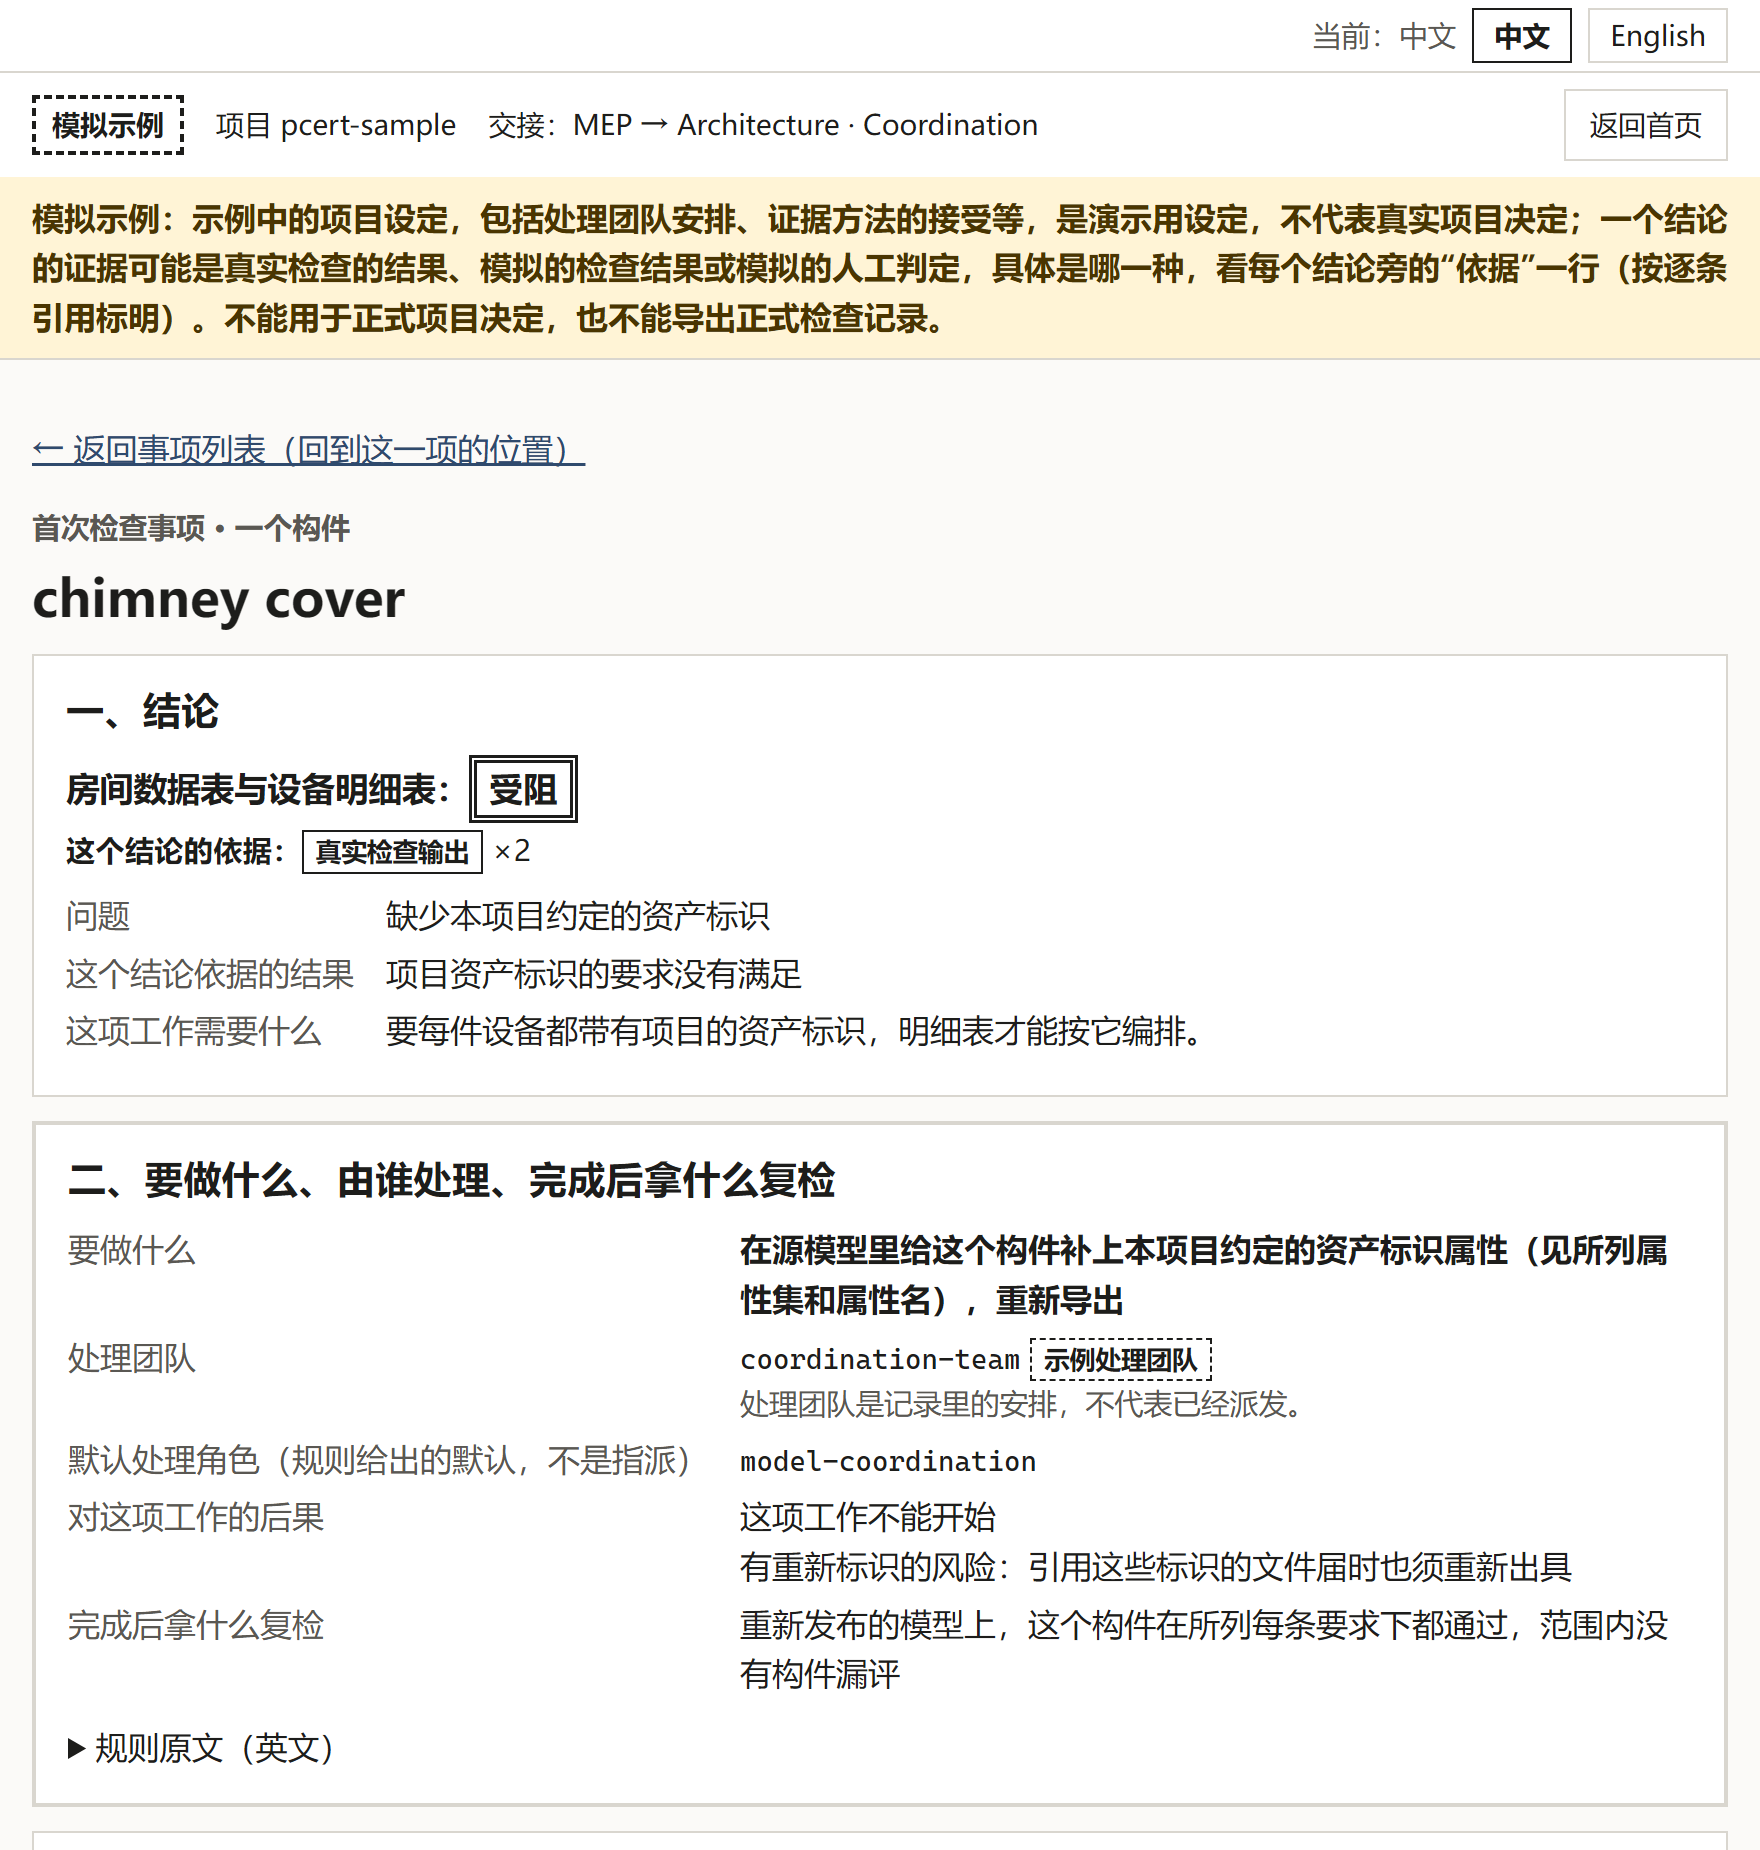
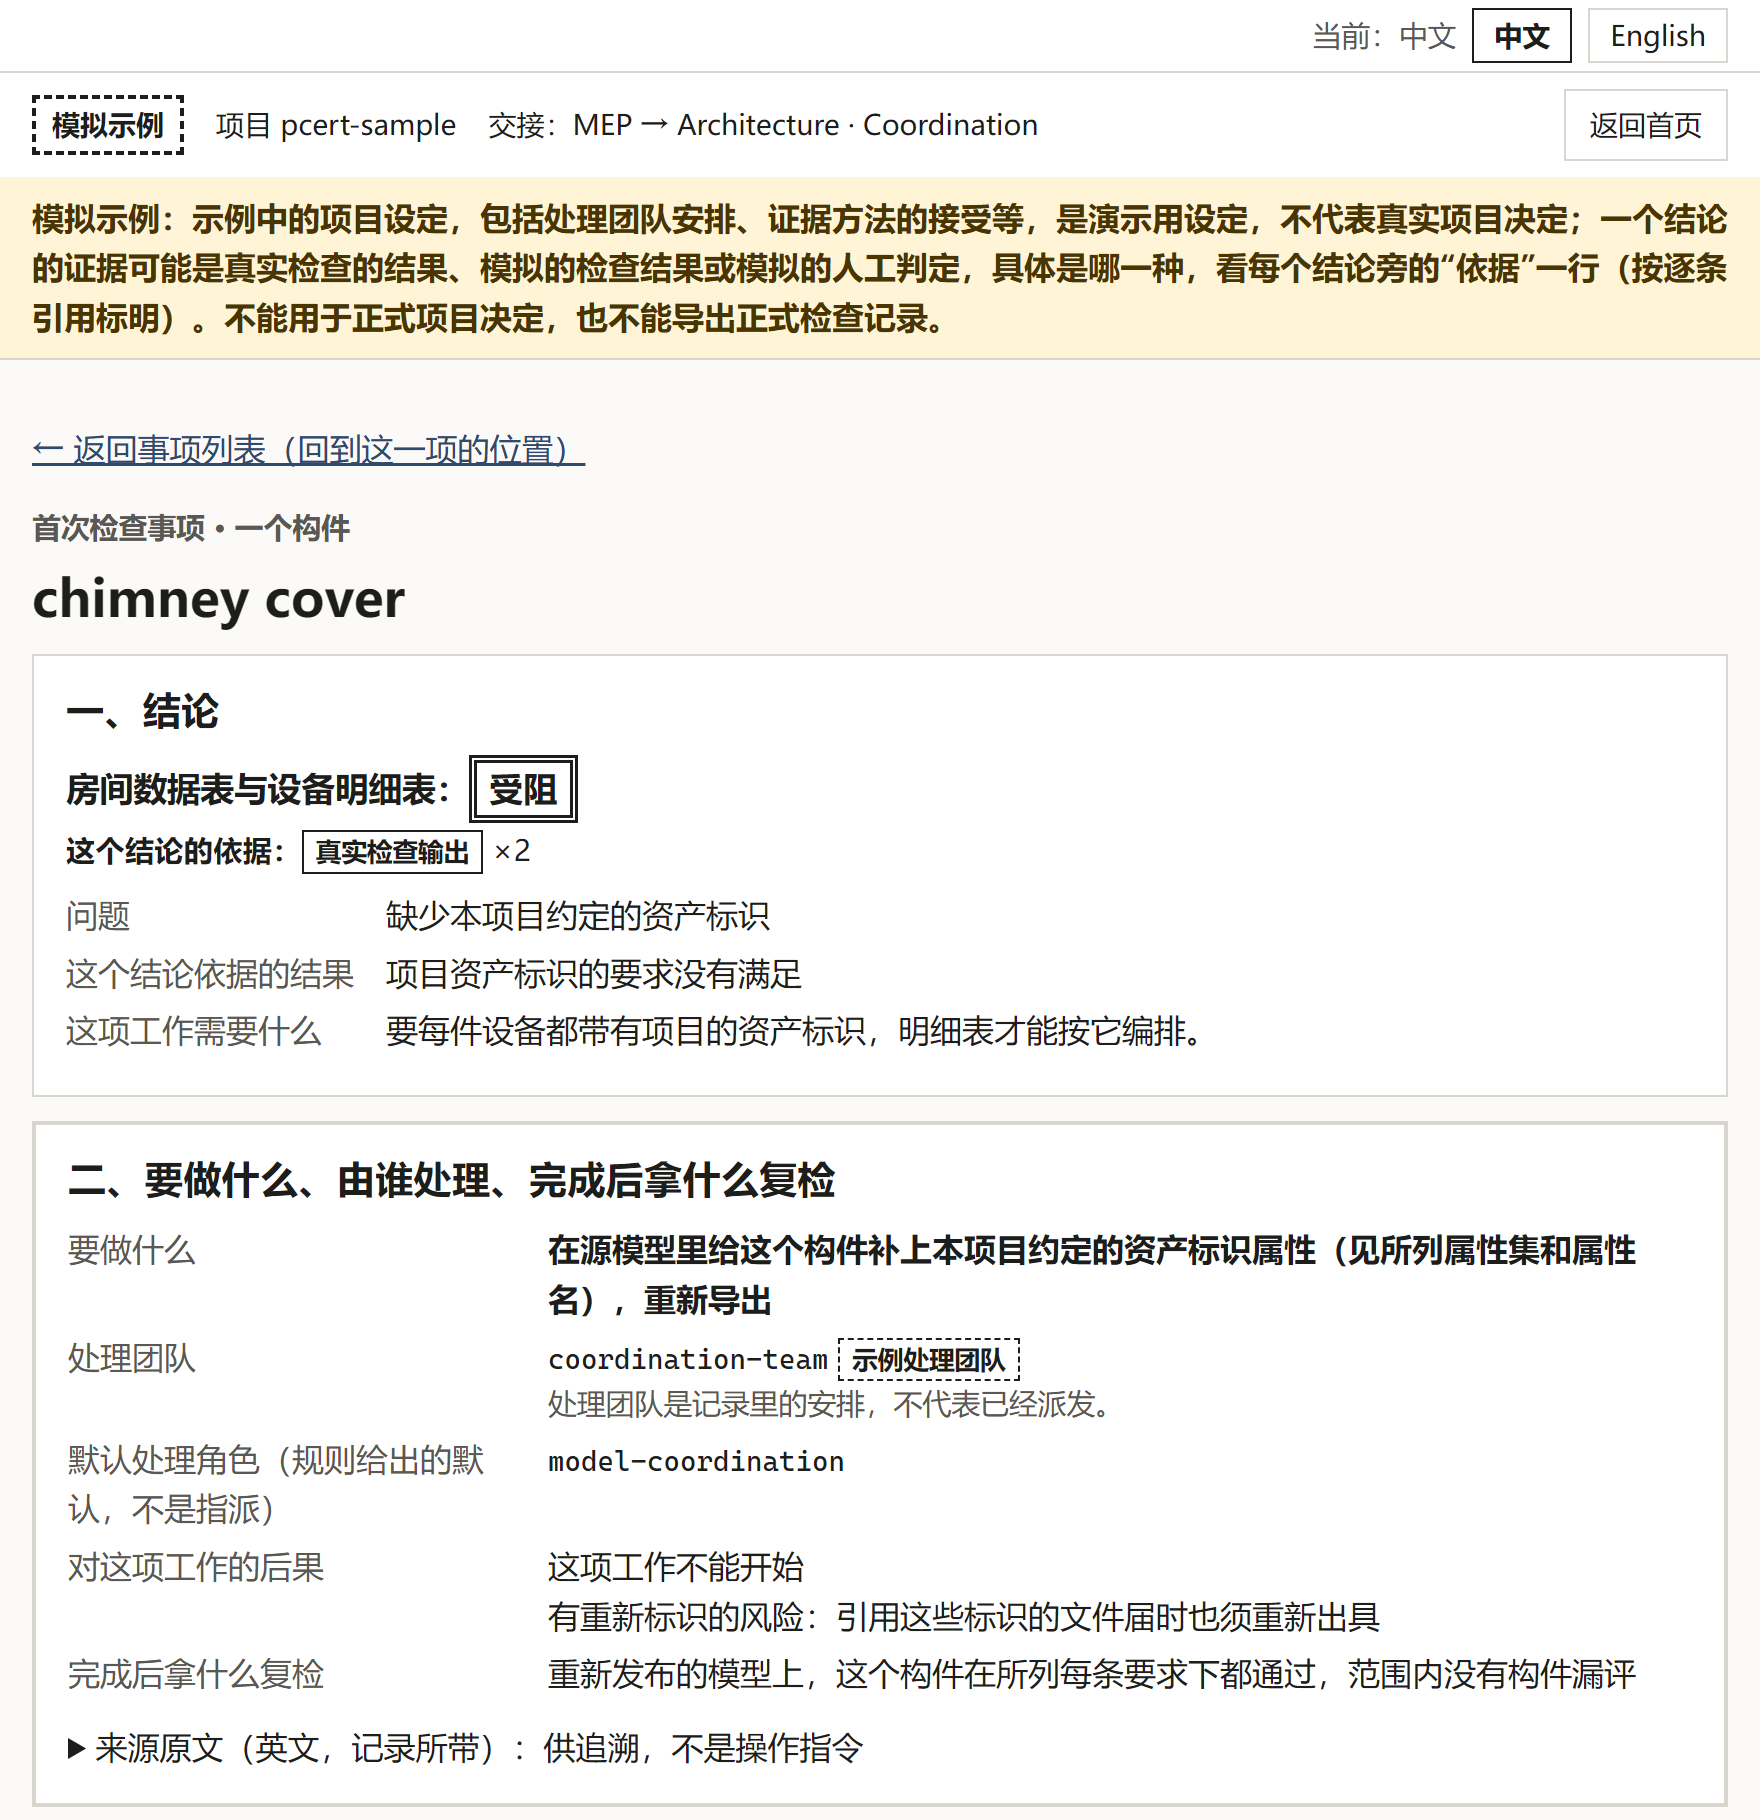
docs: re-capture the Chinese README screenshots at 577620e
The home and first-check captures come out byte-identical to the 872f76f
ones, so those two files stay. The one-item capture is replaced: the fold
under "what to do" now carries the record's own English words with a label
saying so (295da77), and the definition tables' value column has more room
(1cc76b8). Its height goes 925 -> 910 so it ends at a block edge.

The evidence README records the new commit, port, Edge version, heights,
which files changed and which did not, and the SHA-256 of the new file. The
withdrawal note for the English captures now says what was true at the time
and what has changed since (PR #40), without restoring them.

diff --git a/docs/evidence/doctor-first-minute-2026-10-03/README.md b/docs/evidence/doctor-first-minute-2026-10-03/README.md
@@ -25,12 +25,17 @@ shows them.
[2 lines of base64/hex data omitted]
 
-Why: the root README is public display. The English wording has not been
-reviewed by a BIM domain specialist (status line of
+Why, as of the withdrawal: the root README is public display. The English
+wording had not been reviewed by a BIM domain specialist (status line of
 [`docs/product/2026-10-03-doctor-english-vocabulary.md`](../../product/2026-10-03-doctor-english-vocabulary.md)),
-and one next-step sentence on the example's first-check path is known to differ
-in meaning from the Chinese and is being corrected. A note beside a picture that
-the wording is unreviewed does not make the picture safe to display.
+and one next-step sentence on the example's first-check path was known to differ
+in meaning from the Chinese. A note beside a picture that the wording is
+unreviewed does not make the picture safe to display.
+
+Since then the English "what to do" and "what a recheck must show" sentences were
+aligned with the Chinese ones (PR #40, merge commit `a5b89d0`). The wording as a
+whole is still unreviewed by a BIM domain specialist, so the screenshots stay
+withdrawn.
 
 They are not restored by default. To show English screenshots again: have the
 wording that would appear in them reviewed and any meaning error cleared, then
@@ -58,14 +63,15 @@ and history is not rewritten.
 
 ## How they were made
 
-Repository state: `872f76f8cad42269dcbfe5fe32375ecc7507ef4a` (`origin/main` at
-the time), clean worktree.
+Repository state: `577620e5532d837bc0d336b78418cdce05cf1e4f` (`origin/main` at
+the time), clean worktree. The captures replace the earlier ones taken at
+`872f76f8cad42269dcbfe5fe32375ecc7507ef4a`.
 
 ```bash
-python doctor/serve.py --port 8791
+python doctor/serve.py --port 8792
 ```
 
-Each route was loaded once in headless Microsoft Edge 154.0.4258.53 on Windows
+Each route was loaded once in headless Microsoft Edge 154.0.4258.62 on Windows
 11, with a throw-away profile, an 880 px wide window, device scale factor 2 and
 a virtual-time budget long enough for the page to render:
 
@@ -73,17 +79,28 @@ a virtual-time budget long enough for the page to render:
 msedge.exe --headless=new --disable-gpu --hide-scrollbars --no-first-run
   --window-size=880,<height> --force-device-scale-factor=2
   --virtual-time-budget=60000 --user-data-dir=<scratch>
-  --screenshot=<file>.png "http://127.0.0.1:8791/?lang=zh<route>"
+  --screenshot=<file>.png "http://127.0.0.1:8792/?lang=zh<route>"
 ```
 
 Heights in CSS pixels, chosen so each image ends at the edge of a block rather
 than in the middle of one; nothing is scrolled: home 880, first-check result
-985, one item 925.
+985, one item 910.
 
-At that commit the server was also run from a clean environment holding only
-`requirements.txt`, to confirm the visitor path in the README: the home page,
-the language script and the first-check data all answered, and nothing was
-written into the checkout (`git status` unchanged).
+What changed against the `872f76f` captures:
+
+| File | Against `872f76f` |
+|---|---|
+| `zh-01-home.png` | Re-captured; byte-identical. Not replaced. |
+| `zh-02-first-check-result.png` | Re-captured; byte-identical. Not replaced. The cards below the part shown were folded in the meantime (`d2f81d6`); that is below the crop. |
+| `zh-03-one-item.png` | Replaced. The fold under "what to do" is now labelled as the record's own English words, for tracing and not as an instruction (`295da77`), and the value column of the definition tables has more room (`1cc76b8`). The height went from 925 to 910: at 925 the image ran 9 CSS px into the next block. |
+
+The one-item capture was taken twice and the two files were identical.
+
+At `577620e` the server was also run from a clean Python 3.14.7 environment
+holding only `requirements.txt`, to confirm the visitor path in the README: the
+home page, the language script, the list of runs and the first-check data all
+answered, and nothing was written into the checkout (`git status` showed only
+the replaced screenshot).
 
 These are captured images, so they are not reproducible byte for byte: the
 rendering depends on the browser and the system fonts. Their SHA-256 values
@@ -92,7 +109,7 @@ identify the files as committed:
 ```text
 48fec5ec8aa96ba5aabd3969fe2605f4ea5e347080bfc7fb114dd328942dbd8e  zh-01-home.png
 c3789641b237acc64b3369e627314858d41bdb9c640129765a48daba6ce48f67  zh-02-first-check-result.png
-045305448be03e78b3b04a3b22baaae62ee28d43dc7e997d07309d18e9674f95  zh-03-one-item.png
+5c5f316374db094ec0f9e77b9606c68cd99a017e4aa21c2327560974d62dfc1b  zh-03-one-item.png
 ```
 
 ## When they go stale
